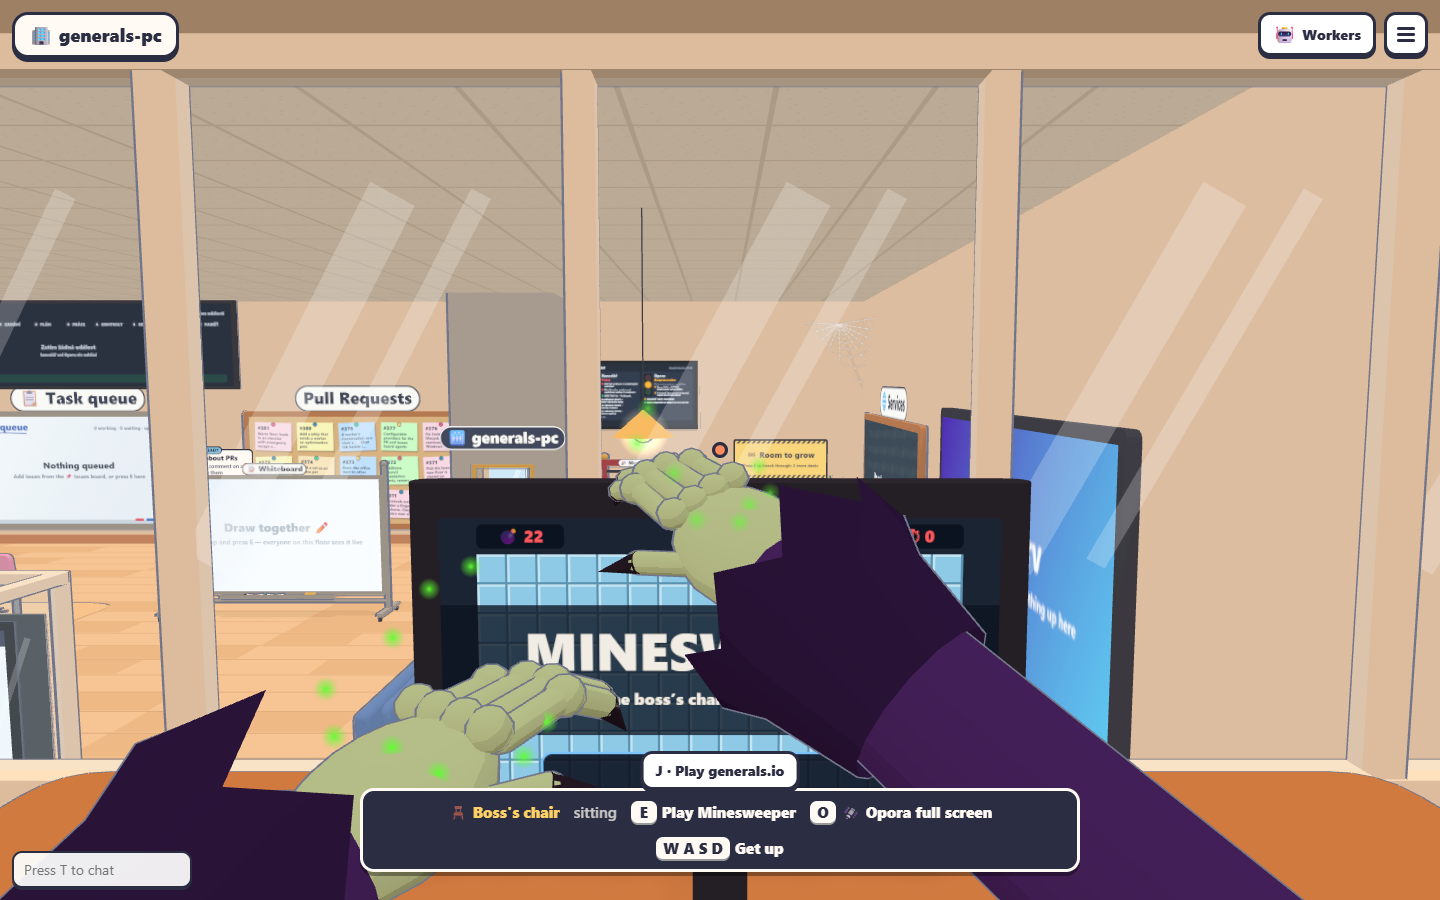
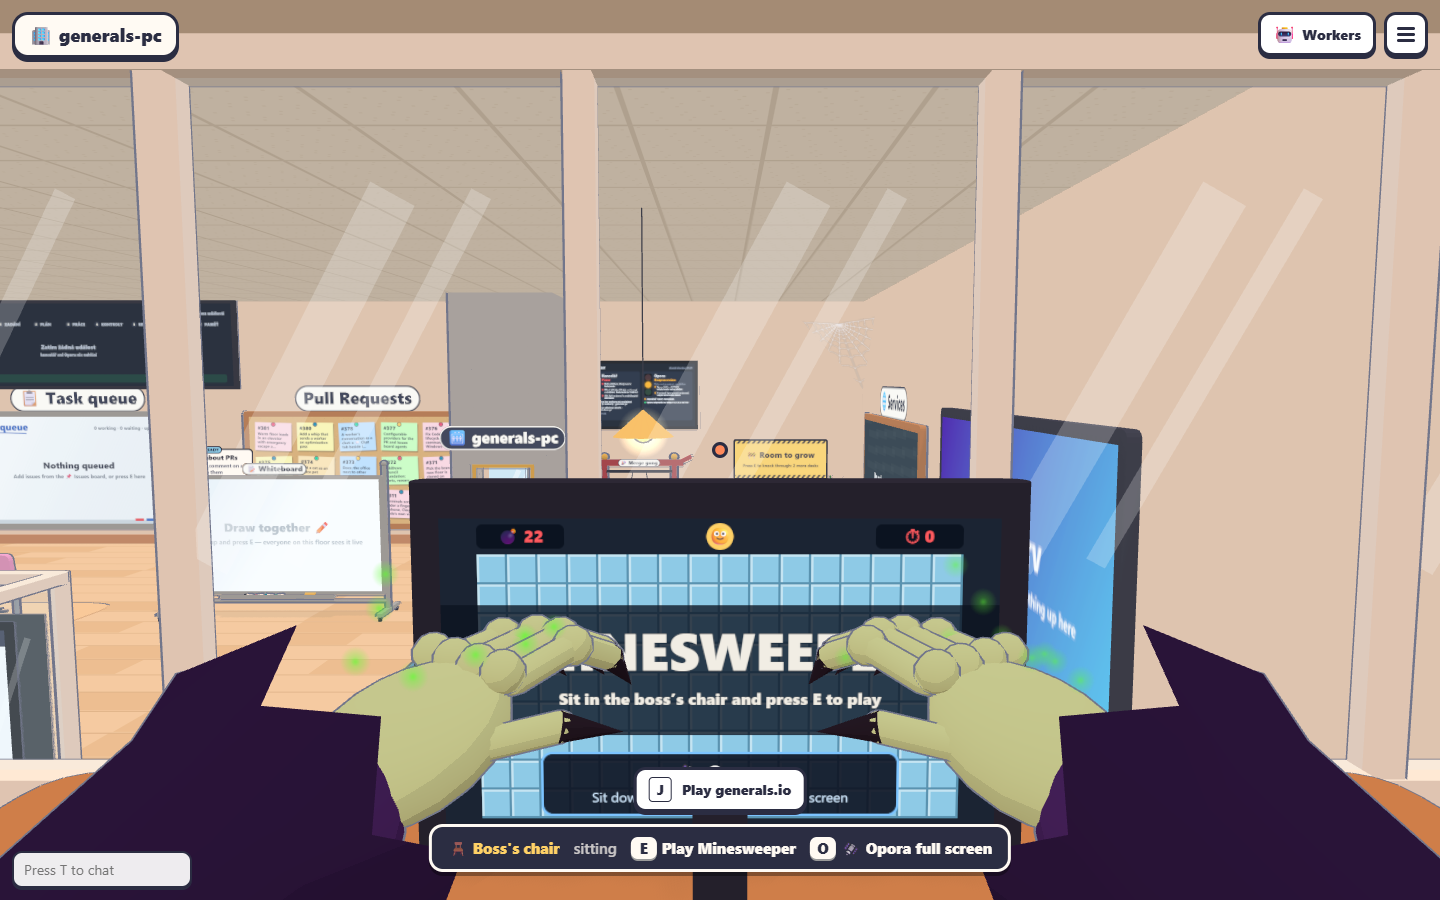
fix: keep Boss PC launcher clear of hints

Changed region(s): [[0.0, 0.4356, 1.0, 1.0]]

diff --git a/src/client/features/generals/index.ts b/src/client/features/generals/index.ts
@@ -1,12 +1,22 @@
 import type { Ctx } from '../../core/context';
-import { h, modalOpen } from '../../ui/dom';
+import { $, h, modalOpen } from '../../ui/dom';
 import { openGenerals } from './ui';
 
 /** The boss's existing PC gets an online game without taking over its other apps. */
 export function installGenerals(ctx: Ctx) {
   const seated = () => ctx.player.seat?.seatId === 'boss-chair';
-  const launcher = h('button.btn.generals-launch.hidden', { type: 'button', onclick: () => openGenerals() }, 'J · Play generals.io');
+  const launcher = h('button.btn.generals-launch.hidden', { type: 'button', onclick: () => openGenerals() },
+    h('kbd', {}, 'J'), h('span', {}, 'Play generals.io'));
+  const hint = $('hint');
   document.body.append(launcher);
-  ctx.ticks.add('hud', () => launcher.classList.toggle('hidden', !seated() || modalOpen()));
+  ctx.ticks.add('hud', () => {
+    const visible = seated() && !modalOpen();
+    launcher.classList.toggle('hidden', !visible);
+    if (!visible) return;
+    // The hint wraps on small windows and moves above the mobile controls.
+    const bottom = hint.classList.contains('hidden') ? 110 : innerHeight - hint.getBoundingClientRect().top + 12;
+    const offset = `${Math.ceil(bottom)}px`;
+    if (launcher.style.bottom !== offset) launcher.style.bottom = offset;
+  });
   ctx.keys.bind({ code: 'KeyJ', when: seated, repeat: false, preventDefault: true, run: () => { openGenerals(); } });
 }

diff --git a/src/client/features/seating/index.ts b/src/client/features/seating/index.ts
@@ -118,7 +118,7 @@ export function installSeating(ctx: Ctx, deps: SeatingDeps) {
         const use = tv ? 'Watch the TV' : seat.game ? 'Play Minesweeper' : seat.bar ? 'Order a drink' : '';
         const opora = seat.game ? deps.opora.connected() : null;
         const desk = opora === null ? [] : opora ? [key('O', '🛰 Opora full screen')] : [aside('Opora isn’t running'), key('O', '🛰 Opora window')];
-        return { k: `${seat.id}|sitting|${tv}|${opora}`, parts: [hintTitle(seat.label), aside('sitting'), ...(use ? [key('E', use), ...desk, key('W A S D', 'Get up')] : [key('E', 'Get up')])] };
+        return { k: `${seat.id}|sitting|${tv}|${opora}`, parts: [hintTitle(seat.label), aside('sitting'), ...(use ? [key('E', use), ...desk, ...(seat.game ? [] : [key('W A S D', 'Get up')])] : [key('E', 'Get up')])] };
       }
       const full = !freePlace(seat);
       return { k: `${seat.id}|${full}`, parts: [hintTitle(seat.label), seat.game ? aside('💣 Minesweeper on the monitor') : '', full ? aside('no room') : key('E', 'Sit down')] };

diff --git a/src/client/features/generals/ui.css b/src/client/features/generals/ui.css
@@ -1,4 +1,5 @@
-.generals-launch { position: fixed; bottom: 110px; left: 50%; transform: translateX(-50%); z-index: 20; }
+.generals-launch { position: fixed; bottom: 110px; left: 50%; transform: translateX(-50%); z-index: 20; display: inline-flex; align-items: center; gap: 10px; max-width: calc(100vw - 24px); white-space: nowrap; }
+.generals-launch kbd { flex: none; font: inherit; padding: 2px 7px; border: 1px solid currentColor; border-radius: 4px; }
 .modal.generals { width: min(1200px, 96vw); max-width: 96vw; height: 88dvh; max-height: 96dvh; display: flex; flex-direction: column; overflow: hidden; background: #222; color: #fff; }
 .generals header { flex-shrink: 0; display: flex; align-items: center; gap: 12px; padding: 12px; flex-wrap: wrap; color: #282b40; }
 .generals header h2 { flex: 1; margin: 0; font-size: 1.2rem; }

diff --git a/README.md b/README.md
@@ -39,7 +39,7 @@ curl -fsSL https://raw.githubusercontent.com/AgentSystemLabs/agent-office/main/i
 - **Workers at desks.** Walk up to an empty desk, press **E**, and pick Claude Code, Codex, OpenCode, Grok, Muse, DeepSeek Harness, Pi or Cursor, each with its model and reasoning effort. The agent's live terminal shows on its laptop, and anyone can open it and type.
 - **Talk instead of typing.** Hold **Ctrl+Space** (or the **🎤**) in a worker's terminal or a prompt box and say what you want: it's typed in for you to send. Your browser does the listening, so there's nothing to install.
 - **You can't miss who needs you.** A worker that stops to ask you something lights a red beacon over its desk, puts a banner on your screen saying who and what for, and sounds an alarm. One that has finished jumps up and down and dings. Press **N** to go straight to whoever is waiting.
-- **generals.io on the Boss PC.** Sit in the boss chair upstairs and press **J** (or click **Play generals.io**) to play the live online game. **Full screen** enlarges it; the top-right **✕** returns to mouse-look. Internet access is required. See [controls and iframe limitations](docs/features.md#generalsio-on-the-boss-pc).
+- **generals.io on the Boss PC.** Sit in the boss chair upstairs and press **J** (or click **Play generals.io**) to play the live online game. The launcher stays above the PC hints, with a separate **J** badge and no WASD reminder. **Full screen** enlarges it; the top-right **✕** returns to mouse-look. Internet access is required. See [controls and iframe limitations](docs/features.md#generalsio-on-the-boss-pc).
 - **From your phone, too.** `/lite` is the office in 2D: every worker and what it's waiting on, its terminal with the keys a phone keyboard lacks, and the boards. The 3D office offers it on a phone or a slow computer.
 - **GitHub on the walls.** Issues and pull requests hang on cork boards. Hand an issue to a worker, queue tasks, give a worker its own git worktree and open its PR with one key (if one gets deleted behind the office's back, the worker waits at its desk until you rebuild it). One task can span several projects: the worker gets a worktree of each, and a PR in each that links the others.
 - **Agents that manage agents.** Every worker can list, hire, message and send home the others, through an `agent-office` MCP server (Claude Code, Codex, OpenCode) or the `office-workers` command. Ask one to "send everyone whose PR merged home" and it does, deleting their worktrees and branches unless they hold unpushed work. A worker that opens its pull request itself (`gh pr create`) shows it at its desk, and one the office missed can be told which is its own (`office-workers pr`).

diff --git a/docs/features.md b/docs/features.md
@@ -88,3 +88,5 @@ The top-right **✕** closes the game and restores office mouse-look. **Esc** do
 Internet access is required and gameplay connects directly to generals.io. The office does not proxy the game or share office credentials with it. If the site is unavailable, blocked by browser settings, or later disallows embedding, use **Open in a tab**. That separate tab has its own session and cannot transfer a match already started in the embedded window.
 
 Browser proof: [Boss PC launcher](shots/generals/boss-pc.png), [live game window](shots/generals/generals-window.png), [fullscreen](shots/generals/generals-fullscreen.png). Run `node tests/generals.browser.mjs` against an isolated production preview at `GENERALS_OFFICE_URL` (default `http://127.0.0.1:4659`, password `generals-preview`, with a project floor). The check loads the real external site; it does not create a game account or join a multiplayer match.
+
+The Boss PC launcher keeps J separate from its label and stays above the hint bar at narrow widths. The boss chair omits the WASD hint; movement still gets you up. Ads belong to generals.io: its [Supporter program](https://generals.io/support) removes them for the game account; the office cannot hide ads inside a cross-origin iframe.
